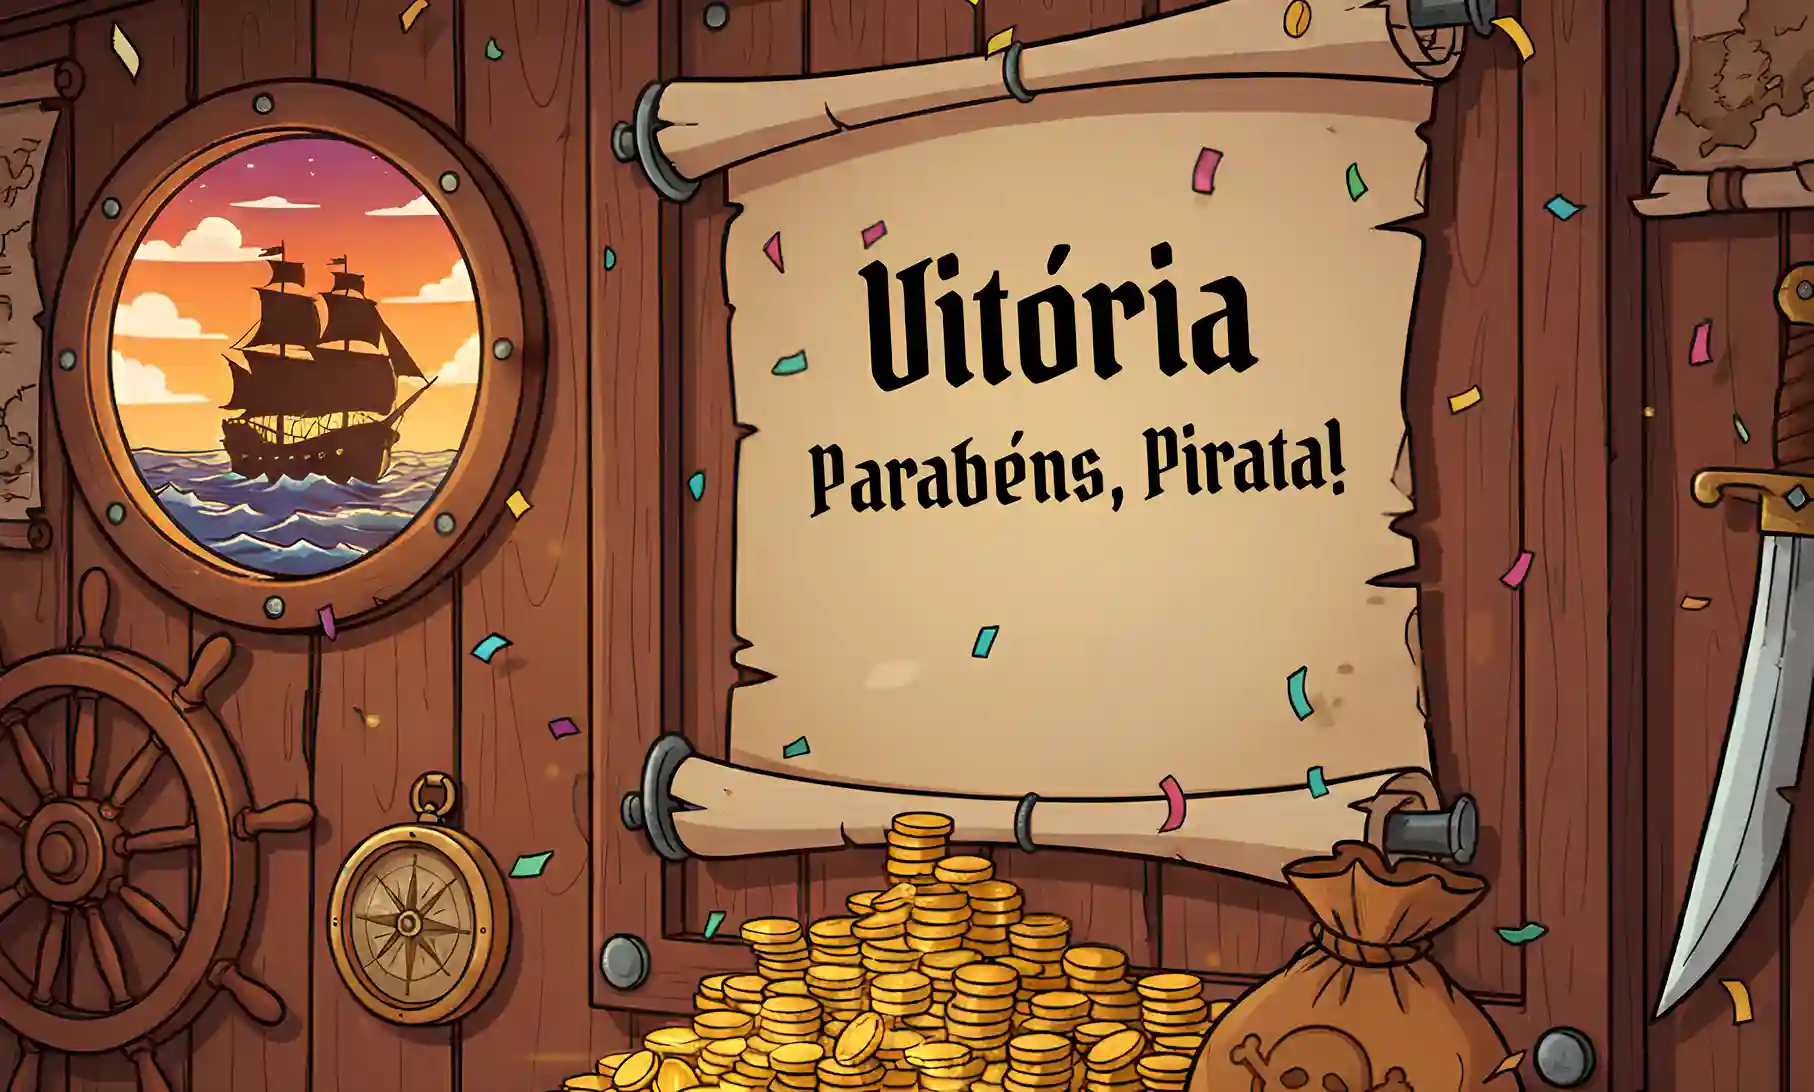
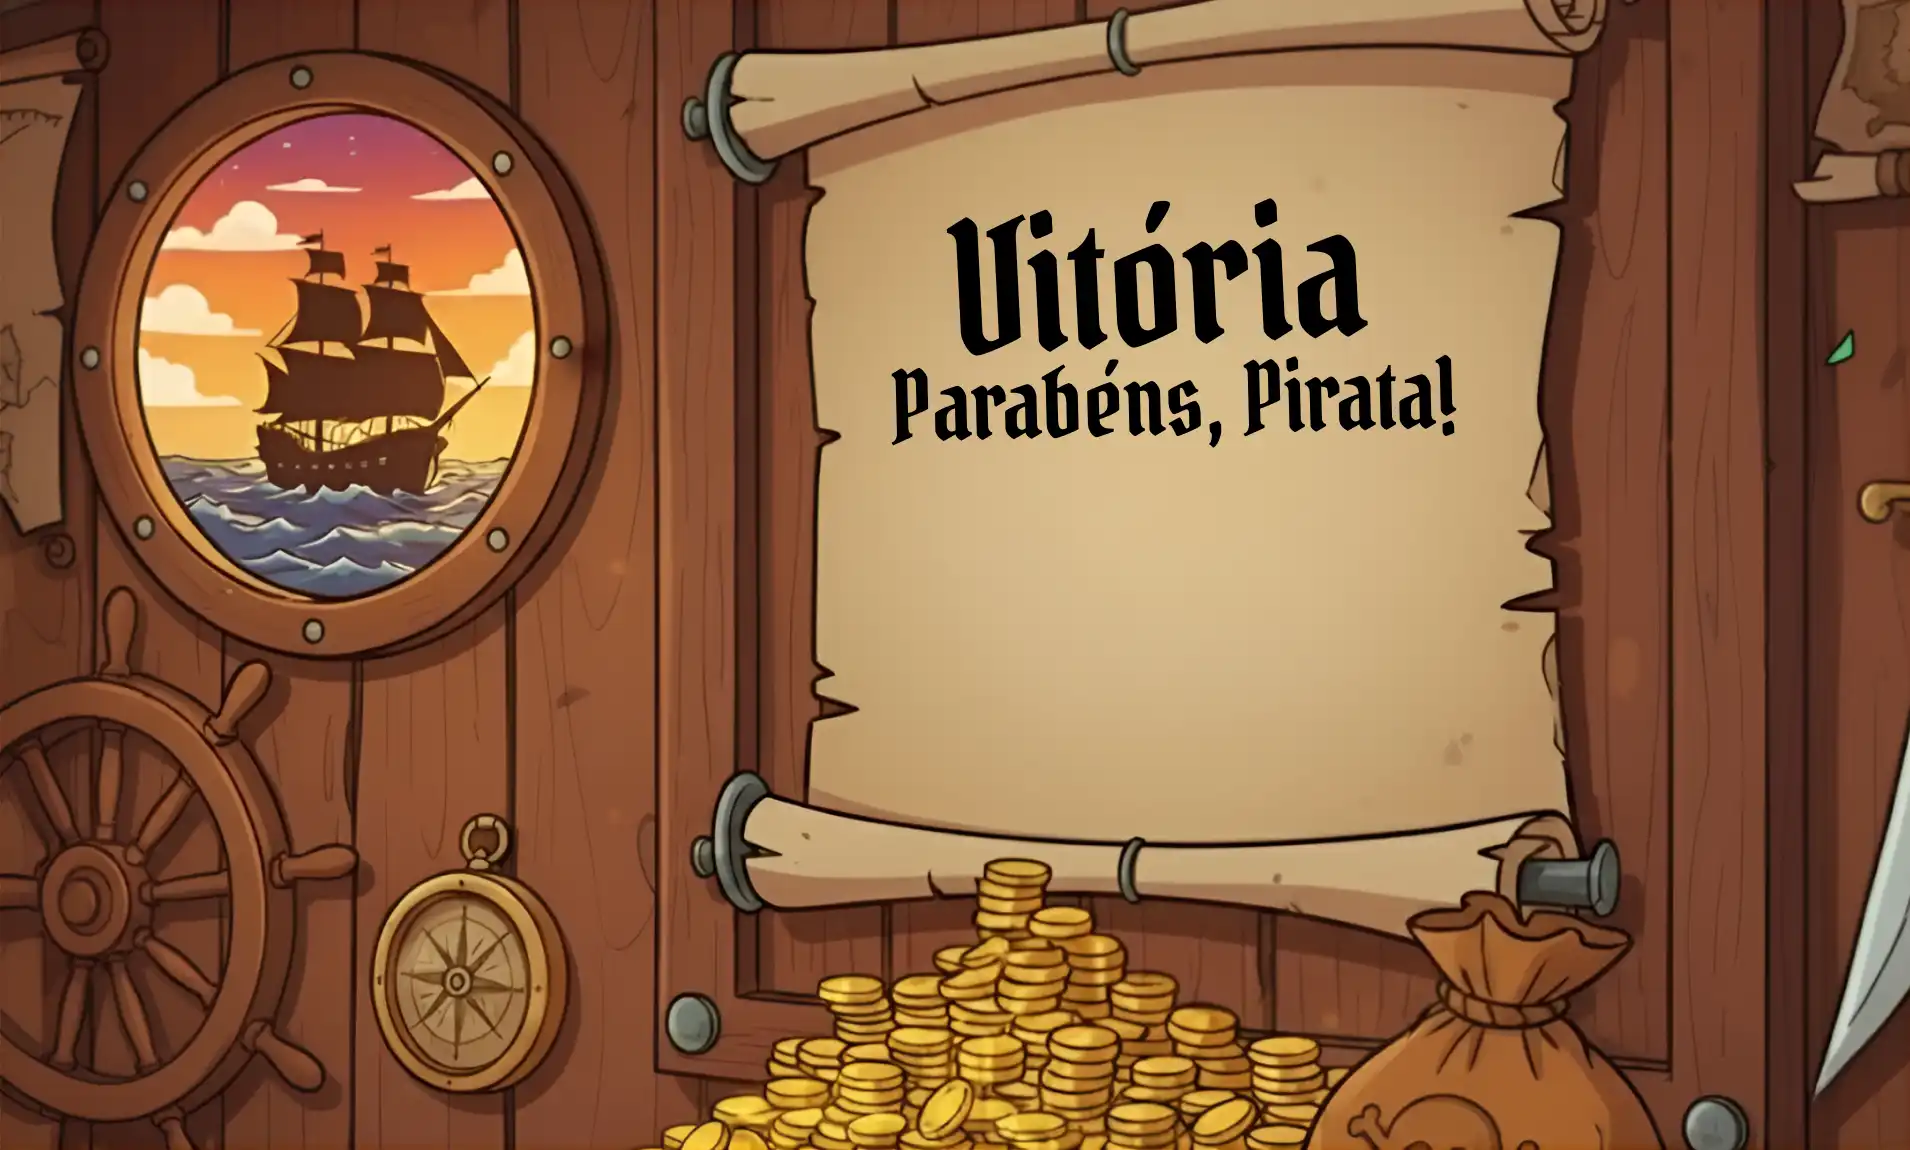
feat: adicionada tela pendindo para virar aparelho e novas responsividades

diff --git a/components/styles/tabuleiro.css b/components/styles/tabuleiro.css
@@ -233,7 +233,7 @@
 .vitoria_conteudo {
     position: absolute;
     top: 60%;
-    left: 60%;
+    left: 59%;
     display: flex;
     flex-direction: column;
     align-items: center;
@@ -308,22 +308,23 @@
     }
 
     .tabuleiro_conteudo_espacamento_cabecalho {
-        width: 130px !important; 
-        max-width: 20vw;
+        width: 180px !important; 
+        max-width: 25vw;
     }
 
     .tabuleiro_conteudo_espacamento_cabecalho_imagem_texto {
         font-size: 1.4rem !important; 
         top: 45%;
+        white-space: nowrap;
     }
 
     .tabuleiro_conteudo_espacamento_pontuacao {
         width: auto; 
-        min-width: 130px;
+        min-width: 180px;
     }
 
     .tabuleiro_pontuacao {
-        max-width: 140px !important;
+        max-width: 240px !important; 
     }
 
     .hud-texto {
@@ -339,21 +340,43 @@
 
     .tabuleiro_pontuacao_placa_texto {
         gap: 5%; 
+        width: 100%;
+    }
+
+    .tela_final_imagem {
+        width: 100vw;
+        height: 100vh;
+        height: 100dvh;
     }
     
+    .tela_final_imagem .fundo_derrota,
+    .tela_final_imagem .fundo_vitoria {
+        width: 100%;
+        height: 100%;
+        object-fit: cover;
+    }
+
     .derrota_conteudo,
     .vitoria_conteudo {
-        top: 45%;
-        left: 50%;
-        transform: translate(-50%, -50%);
-        margin: 0;
-        padding: 0.5rem;
-        width: 80%;
-        gap: 0.5rem;
+        position: absolute;
+        top: 43%;
+        left: 14%;
+        transform: none; 
+        margin: 0; 
+        padding: 0.2rem;
+        width: 90%; 
+        gap: clamp(0.3rem, 1.2vh, 1.2rem);
+        align-items: center; 
+        text-align: center;
+    }
+
+    .vitoria_conteudo {
+        top: 40%;
+        left: 16%;
     }
 
     .texto_barra {
-        font-size: 1.5rem;
+        font-size: clamp(1.1rem, 3.5vw, 1.8rem);
     }
 }
 

diff --git a/components/styles/index.css b/components/styles/index.css
@@ -176,3 +176,29 @@ button {
         width: 100%;
     }
 }
+
+#aviso-orientacao {
+    position: fixed;
+    top: 0;
+    left: 0;
+    width: 100vw;
+    height: 100vh;
+    height: 100dvh; 
+    z-index: 99999;
+    background-color: #0a1621;
+    display: none; 
+}
+
+#aviso-orientacao img {
+    display: block;
+    width: 100%;
+    height: 100%;
+    object-fit: fill;
+    object-position: center;
+}
+
+@media screen and (orientation: portrait) {
+    #aviso-orientacao {
+        display: block; 
+    }
+}

diff --git a/index.html b/index.html
@@ -17,6 +17,10 @@
 </head>
 
 <body>
+    <div id="aviso-orientacao">
+        <img src="game_assets/aviso.webp" alt="Vire o celular">
+    </div>
+
     <audio id="musica_fundo" src="game_assets/index/tesouro à vista!.mp3" loop></audio>
     <audio id="som_clique" src="game_assets/tabuleiro/clique.mp3" preload="auto"></audio>
     <audio id="som_pergunta" src="game_assets/tabuleiro/abrirPergunta.mp3" preload="auto"></audio>
